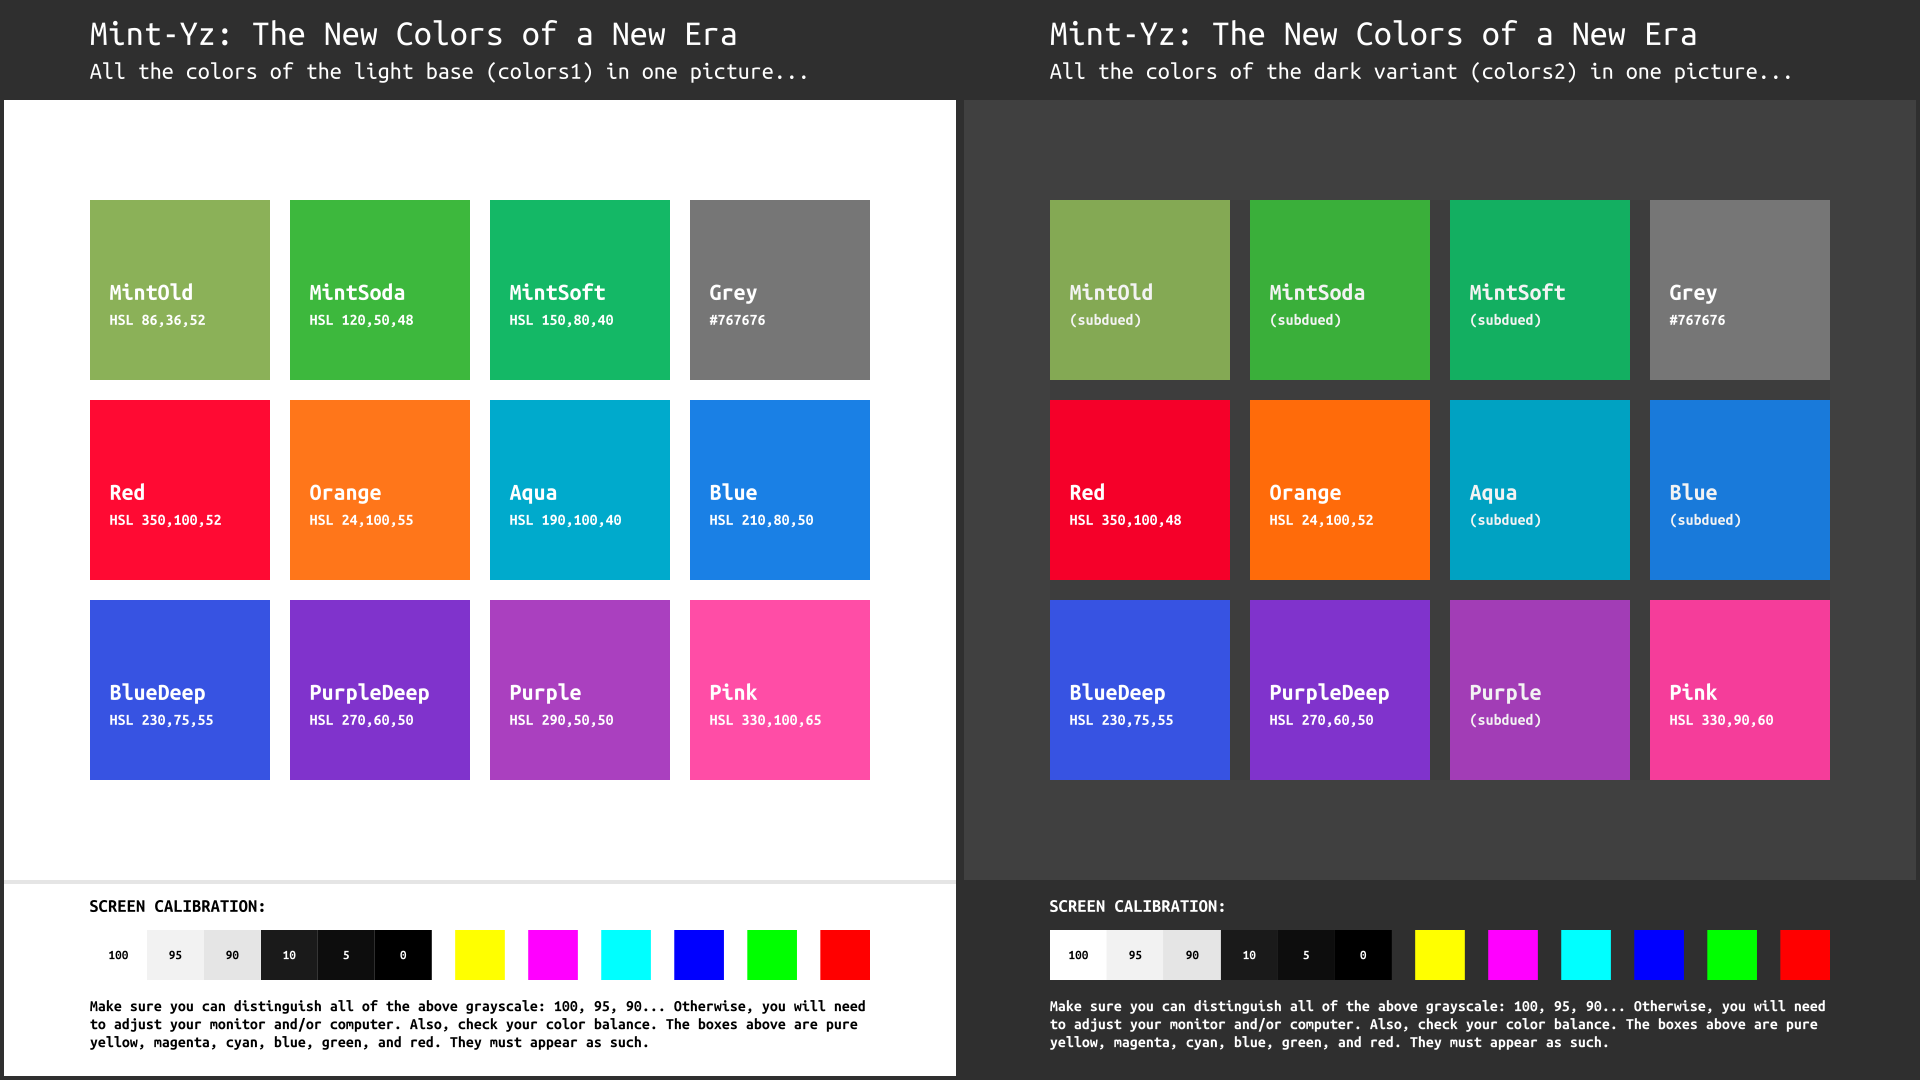
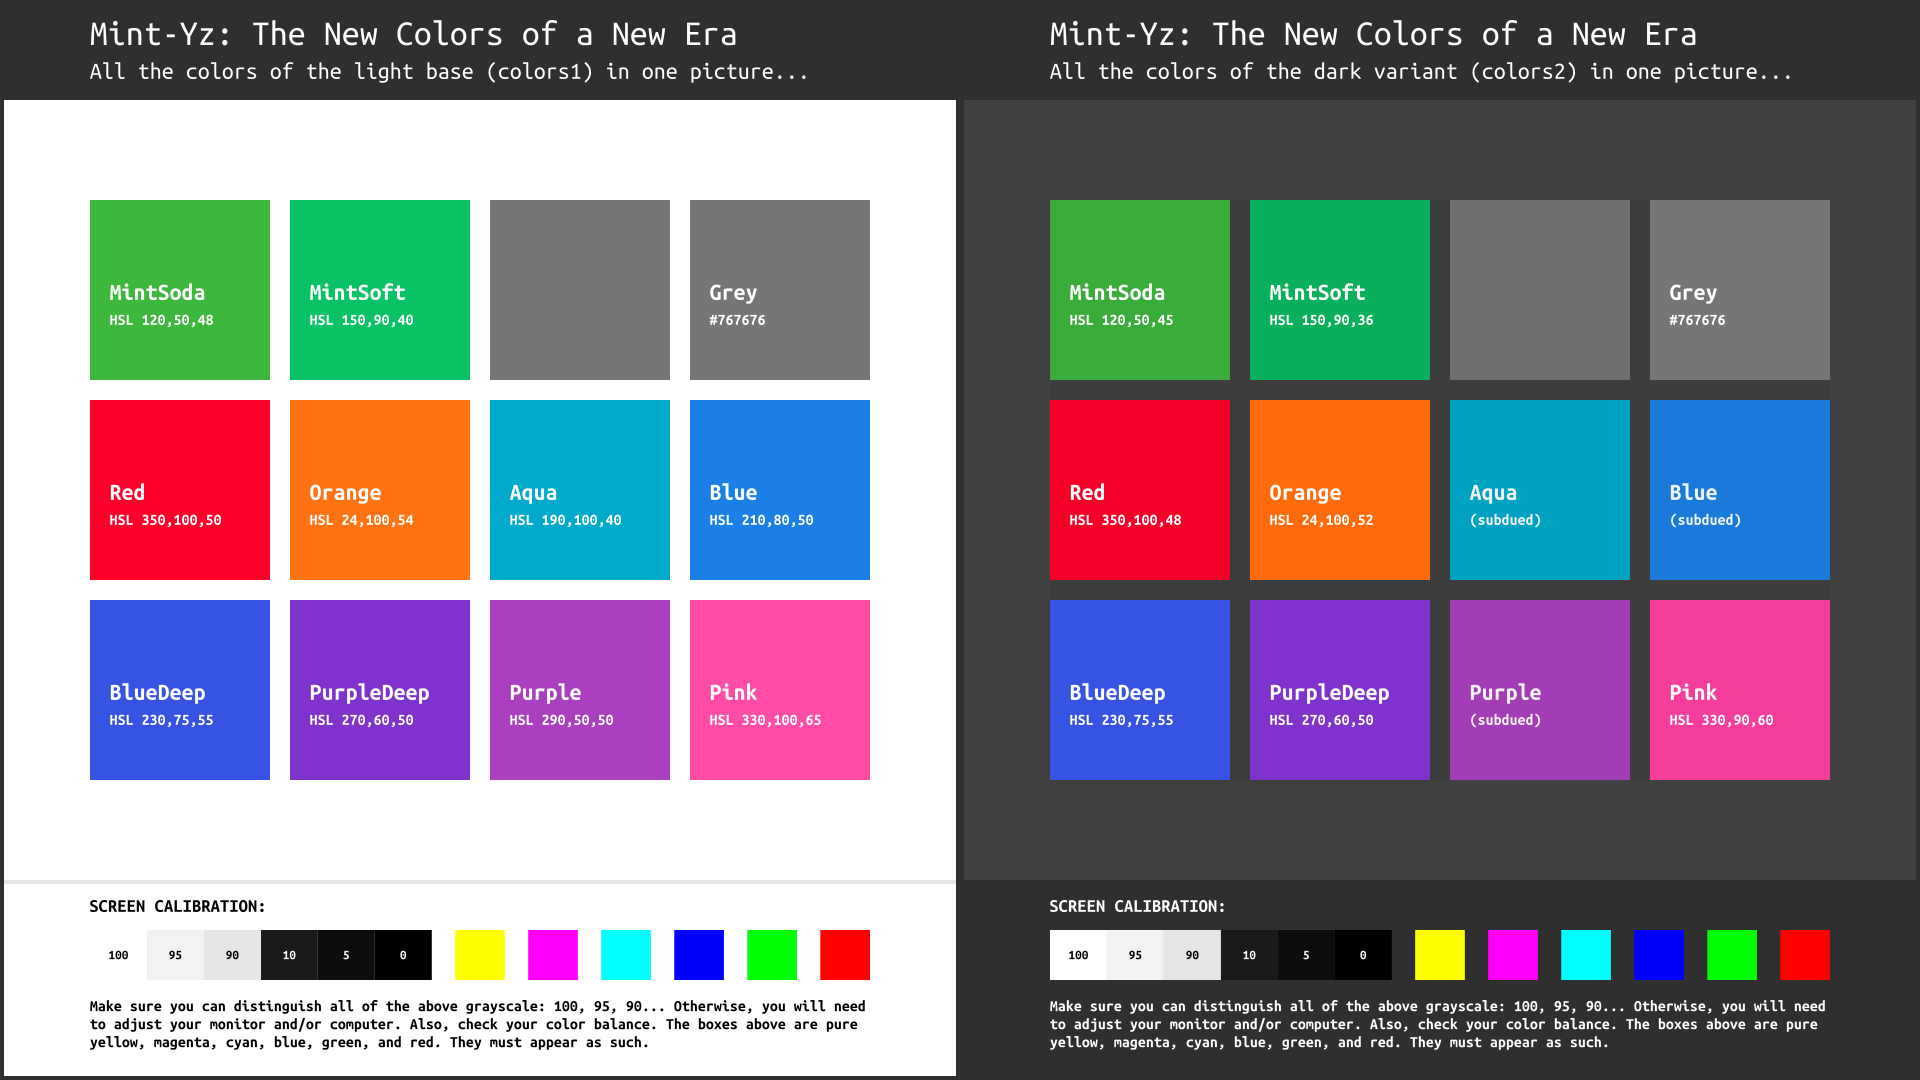
Color updates
modified:   Mint-Y-Colors/Mint-Y-Variations.png
	modified:   Mint-Y-Colors/Mint-Y-Variations.svg
	modified:   Mint-Y-Colors/one-by-one/Mint-Y-Variations-Mint-2.svg
	modified:   Mint-Y-Colors/one-by-one/Mint-Y-Variations-Red.svg
	modified:   constants.py

Changed region(s): [[0.5312, 0.1833, 0.875, 0.3667], [0.0312, 0.1833, 0.375, 0.3667]]

diff --git a/constants.py b/constants.py
@@ -18,35 +18,30 @@ y_hex_colors2 = {}
 y_hex_colors3 = {}
 y_hex_colors4 = {}
 
-y_hex_colors1["MintOld"] = "#8BB158"
-y_hex_colors2["MintOld"] = "#84A954"
-y_hex_colors3["MintOld"] = "#A2C179"
-y_hex_colors4["MintOld"] = "#627C3E"
-
 y_hex_colors1["MintSoda"] = "#3DB83D"
-y_hex_colors2["MintSoda"] = "#3AAF3A"
+y_hex_colors2["MintSoda"] = "#3AAC3A"
 y_hex_colors3["MintSoda"] = "#64C664"
 y_hex_colors4["MintSoda"] = "#2B812B"
 
-y_hex_colors1["MintSoft"] = "#14B866"
-y_hex_colors2["MintSoft"] = "#13AF61"
-y_hex_colors3["MintSoft"] = "#43C685"
-y_hex_colors4["MintSoft"] = "#0E8148"
+y_hex_colors1["MintSoft"] = "#0AC266"
+y_hex_colors2["MintSoft"] = "#09AF5B"
+y_hex_colors3["MintSoft"] = "#3BCE85"
+y_hex_colors4["MintSoft"] = "#078848"
 
 y_hex_colors1["Grey"] = "#767676"
 y_hex_colors2["Grey"] = "#767676"
 y_hex_colors3["Grey"] = "#919191"
 y_hex_colors4["Grey"] = "#535353"
 
-y_hex_colors1["Red"] = "#FF0A33"
+y_hex_colors1["Red"] = "#FF002B"
 y_hex_colors2["Red"] = "#F50029"
-y_hex_colors3["Red"] = "#FF3B5C"
-y_hex_colors4["Red"] = "#B30724"
+y_hex_colors3["Red"] = "#FF3355"
+y_hex_colors4["Red"] = "#B3001E"
 
-y_hex_colors1["Orange"] = "#FF761A"
+y_hex_colors1["Orange"] = "#FF7314"
 y_hex_colors2["Orange"] = "#FF6B0A"
-y_hex_colors3["Orange"] = "#FF9148"
-y_hex_colors4["Orange"] = "#B35312"
+y_hex_colors3["Orange"] = "#FF8F43"
+y_hex_colors4["Orange"] = "#B3510E"
 
 y_hex_colors1["Aqua"] = "#00AACC"
 y_hex_colors2["Aqua"] = "#00A2C2"
